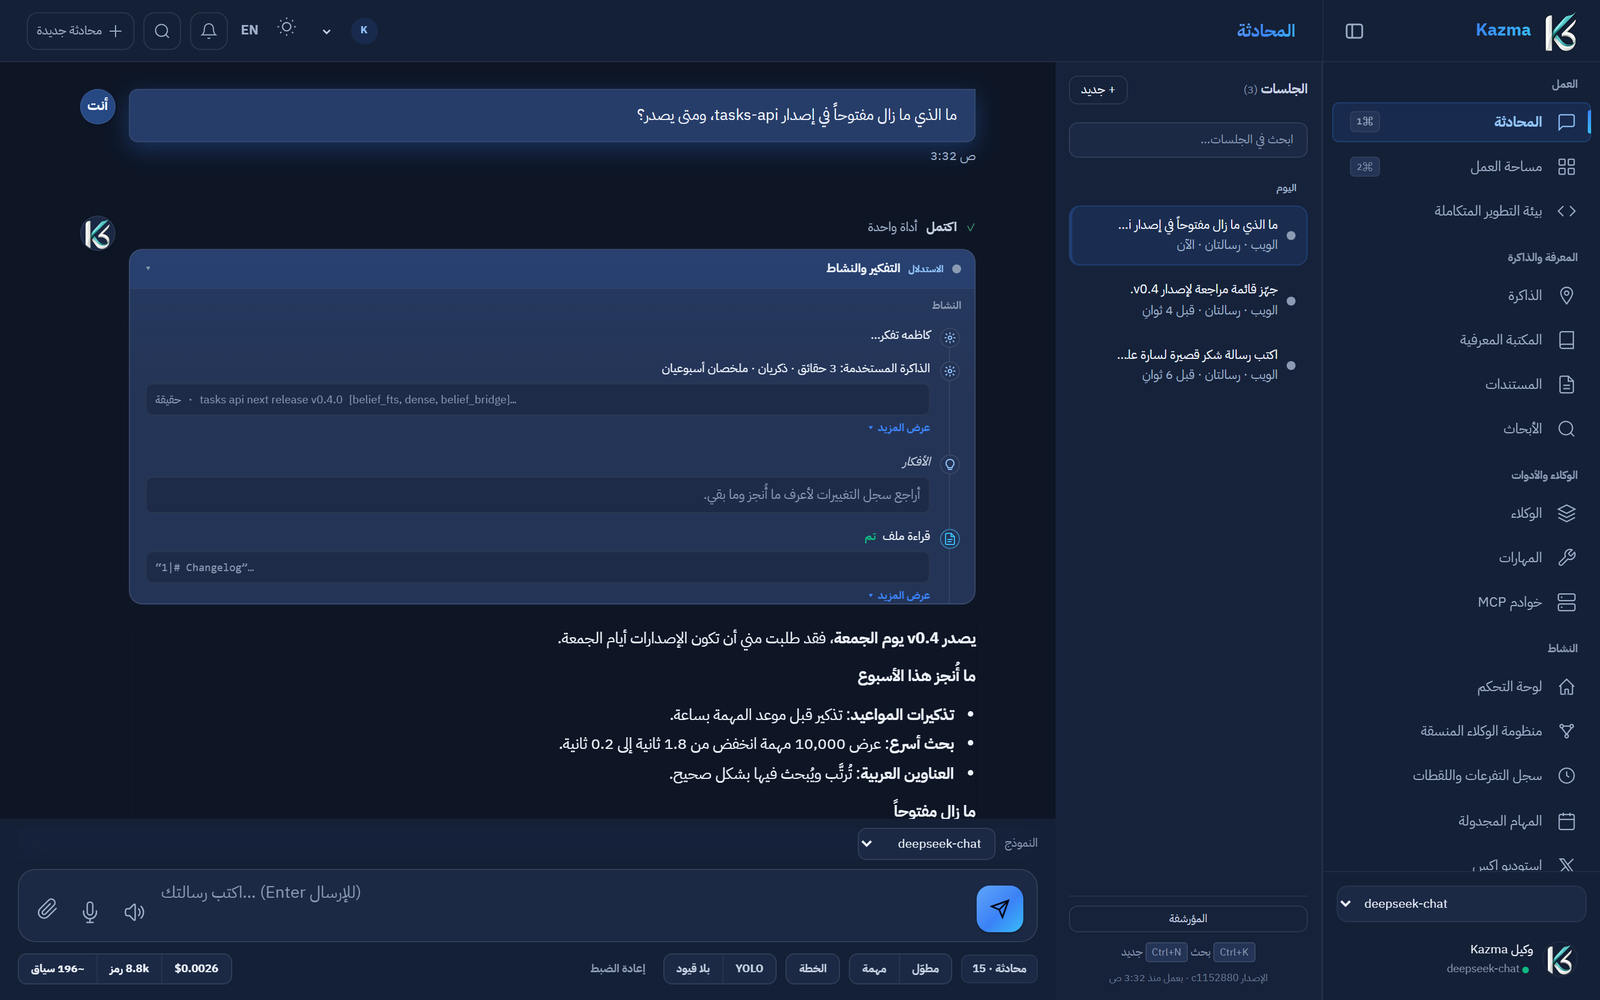
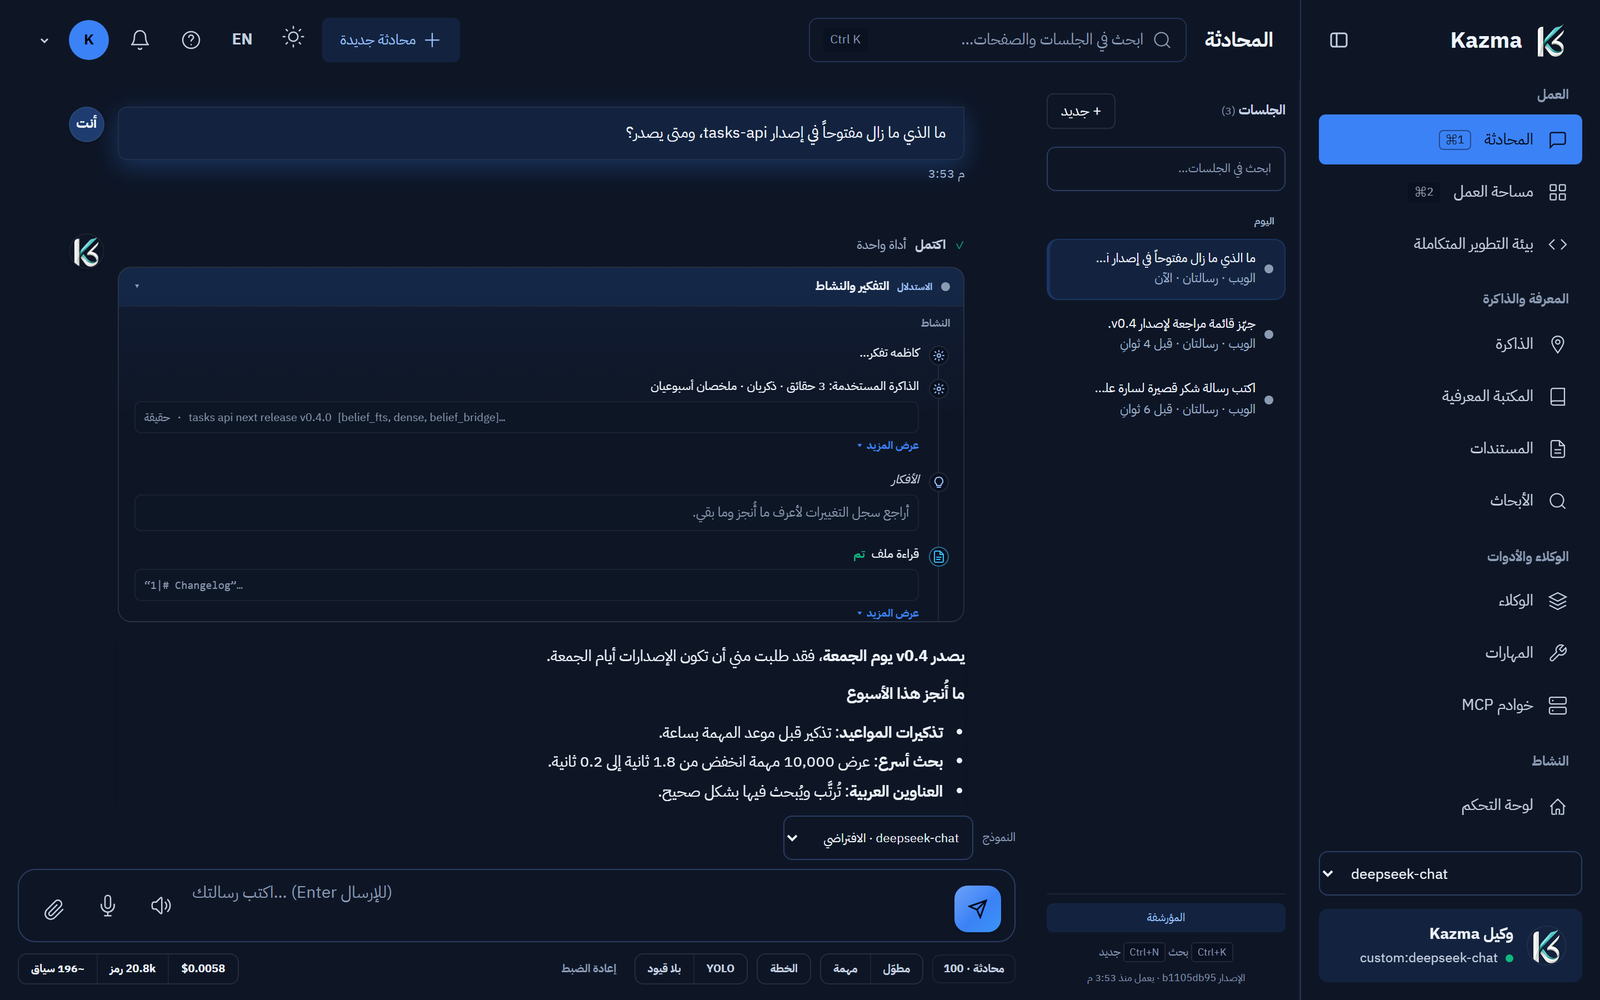
The README screenshots show the refreshed interface
Retaken from the demo harness (tests/site: a private data folder, demo data,
a scripted model; never a live install): an answer with the memory it used,
an approval card, and the Arabic chat, in the November UI. The screenshot
test is marked real_model (its memory seed uses the local embedder, which
the egress guard now refuses unmarked), and scripts/site_screenshots.py
enables it.

diff --git a/scripts/site_screenshots.py b/scripts/site_screenshots.py
@@ -33,6 +33,8 @@ def _capture(shots_dir: str, lang: str, theme: str) -> int:
         OMP_NUM_THREADS="2",
         MKL_NUM_THREADS="2",
         PYTHONIOENCODING="utf-8",
+        # The memory seed embeds with the local model (the test is real_model).
+        KAZMA_TEST_REAL_MODEL="1",
     )
     run = subprocess.run(
         [sys.executable, "-m", "pytest", "tests/site/test_site_screenshots.py",

diff --git a/tests/site/test_site_screenshots.py b/tests/site/test_site_screenshots.py
@@ -506,6 +506,9 @@ def _panel_to_top(pg: Any, element_id: str) -> None:
     )
 
 
+# The memory seed embeds with the local model, so the memory probe shows real
+# recall (scripts/site_screenshots.py sets KAZMA_TEST_REAL_MODEL=1).
+@pytest.mark.real_model
 def test_site_shots(monkeypatch: pytest.MonkeyPatch) -> None:
     from playwright.sync_api import sync_playwright
 

diff --git a/METRICS.md b/METRICS.md
@@ -1,7 +1,7 @@
 # Repository Metrics
 
 > Auto-generated by `scripts/generate_metrics.py` — run `python scripts/generate_metrics.py --write` to refresh.
-> **Last updated:** 2026-11-16 · HEAD: `113fee1e1 The READMEs show the Codecov coverage badge (2026-11-16)`
+> **Last updated:** 2026-11-16 · HEAD: `b1105db95 Codecov measures CI's other suites too (2026-11-16)`
 
 All figures are derived from **git-tracked** files, so they are stable and reproducible regardless of local build artifacts (`.venv/`, `.pytest_tmp_*`, caches).
 
@@ -10,20 +10,20 @@ All figures are derived from **git-tracked** files, so they are stable and repro
 | Metric | Count |
 |---|---:|
 | Total `.py` files | **3,092** |
-| Total lines | **881,349** |
-| Pure code lines | 698,229 (79%) |
+| Total lines | **881,354** |
+| Pure code lines | 698,231 (79%) |
 | Blank lines | 142,838 (16%) |
-| Comment/doc lines | 40,282 (4%) |
+| Comment/doc lines | 40,285 (4%) |
 
 ## By area
 
 | Area | Files | Total LOC |
 |---|---:|---:|
 | Source (6 packages) | 1,254 | 434,707 |
-| tests/ + loadtests/ | 1,743 | 404,648 |
+| tests/ + loadtests/ | 1,743 | 404,651 |
 | examples/ | 32 | 7,597 |
 | archive/ | 0 | 0 |
-| scripts/ | 88 | 37,679 |
+| scripts/ | 88 | 37,681 |
 | root *.py | 2 | 1,095 |
 
 ## LOC per package
@@ -47,7 +47,7 @@ All figures are derived from **git-tracked** files, so they are stable and repro
 | `async def test_*` functions | 3,070 |
 | `Test*` classes | 1,177 |
 | Total test functions | 17,261 |
-| Test LOC | 404,648 |
+| Test LOC | 404,651 |
 | Test-to-source LOC ratio | ~0.93:1 |
 
 > **Collected at runtime** is the real test count the main suite runs
@@ -84,7 +84,7 @@ All figures are derived from **git-tracked** files, so they are stable and repro
 
 | Metric | Count |
 |---|---:|
-| Commits | **5,482** |
+| Commits | **5,483** |
 | Contributors | 10 |
 | Branches | 1 |
 | Tags | 23 |

diff --git a/README.md b/README.md
@@ -39,7 +39,7 @@
 <!-- Metrics auto-verified from METRICS.md -->
 | Codebase | Test suite | History | Talk to it from |
 |---|---|---|---|
-| **~881K LOC** (698K Python code + 48K JS) | **23,080 tests** (1,743 test files) | **5,482+ commits** across 6 packages | Web · TUI · CLI · Telegram · Discord · Slack |
+| **~881K LOC** (698K Python code + 48K JS) | **23,080 tests** (1,743 test files) | **5,483+ commits** across 6 packages | Web · TUI · CLI · Telegram · Discord · Slack |
 
 ---
 
